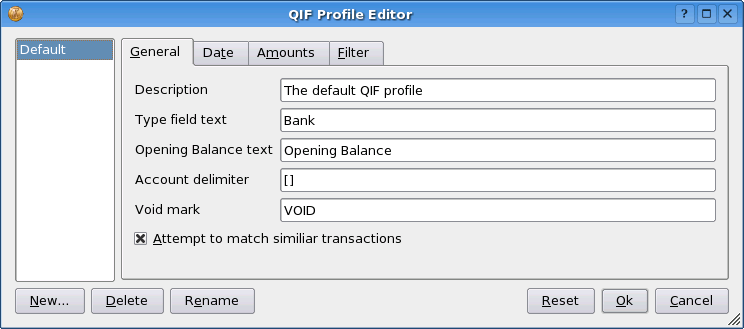
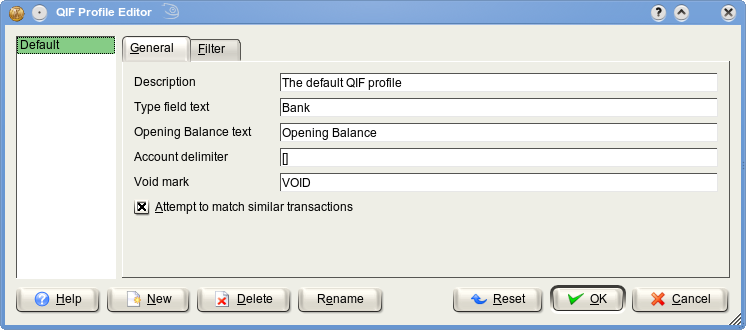
* Updated documentation on QIF import * Removed unused UI parts of QIF profile editor * Resized the QIF import dialog

diff --git a/kmymoney2/dialogs/mymoneyqifprofileeditor.cpp b/kmymoney2/dialogs/mymoneyqifprofileeditor.cpp
@@ -22,6 +22,7 @@
 #include <qlistbox.h>
 #include <qlistview.h>
 #include <qcheckbox.h>
+#include <qtabwidget.h>
 
 // ----------------------------------------------------------------------------
 // KDE Includes
@@ -81,16 +82,14 @@ MyMoneyQifProfileEditor::MyMoneyQifProfileEditor(const bool edit, QWidget *paren
   m_isAccepted(false),
   m_selectedAmountType(0)
 {
+  // we don't need the date and amounts tab anymore, so we just hide them for now
+  profileTabs->removePage( tabMoney );
+  profileTabs->removePage( tabDate );
+
   loadWidgets();
   loadProfileListFromConfig();
 
   // load button icons
-  m_resetButton->setGuiItem(KStdGuiItem::reset());
-  m_cancelButton->setGuiItem(KStdGuiItem::cancel());
-  m_okButton->setGuiItem(KStdGuiItem::ok());
-  m_deleteButton->setGuiItem(KStdGuiItem::del());
-  m_helpButton->setGuiItem(KStdGuiItem::help());
-
   KIconLoader* il = KGlobal::iconLoader();
   KGuiItem newButtenItem( i18n( "&New" ),
                       QIconSet(il->loadIcon("filenew", KIcon::Small, KIcon::SizeSmall)),
@@ -139,6 +138,8 @@ MyMoneyQifProfileEditor::~MyMoneyQifProfileEditor()
   } else {
     slotReset();
   }
+  delete tabMoney;
+  delete tabDate;
 }
 
 void MyMoneyQifProfileEditor::loadWidgets(void)
